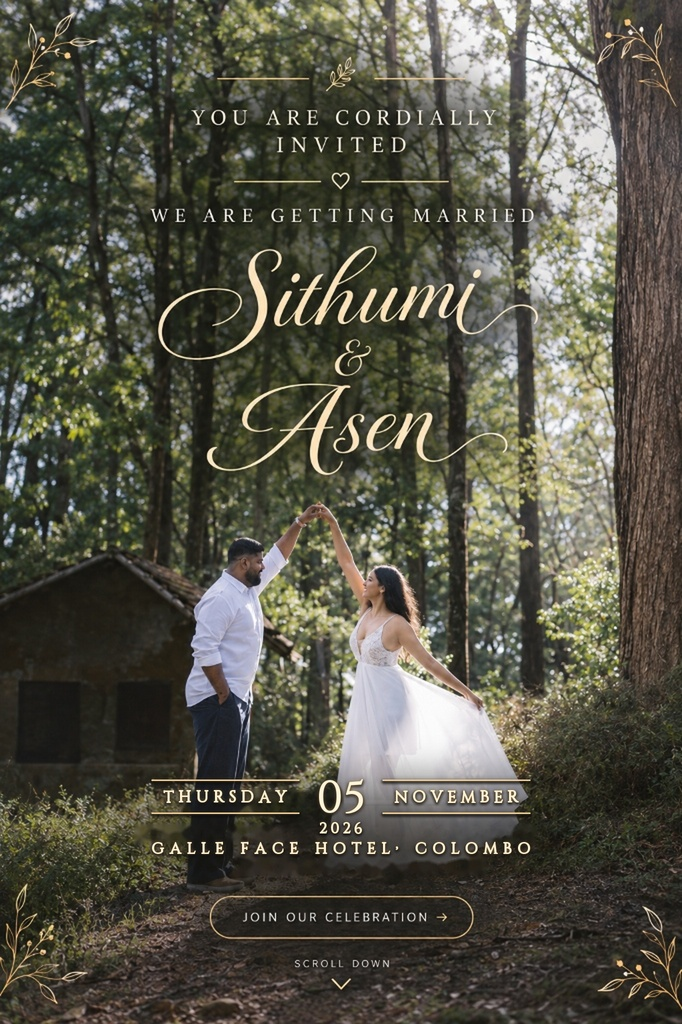
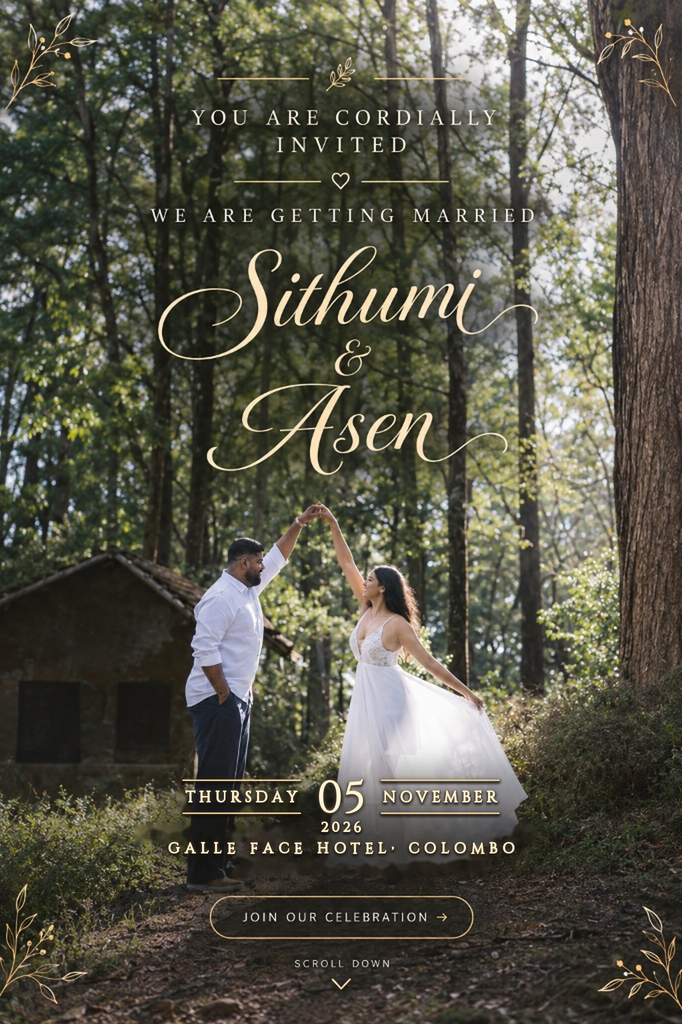
fix hero section issue

Changed region(s): [[0.1848, 0.75, 0.7698, 0.8438]]

diff --git a/src/components/Hero.jsx b/src/components/Hero.jsx
@@ -28,17 +28,17 @@ export default function Hero() {
   return (
     <section
       id="home"
-      className="relative min-h-[100dvh] w-full flex items-center justify-center overflow-hidden bg-[#0D0B08] select-none"
+      className="relative h-[100dvh] min-h-[100dvh] w-full flex items-center justify-center overflow-hidden bg-[#0D0B08] select-none"
     >
       {/* Subtle Ambient Vignette Backdrop */}
       <div className="absolute inset-0 bg-radial from-[#1A1610] via-[#0D0B08] to-[#050403] pointer-events-none" />
 
       {/* 
-        The Exact Full Invitation Poster Card:
-        - Perfectly constrained to aspect ratio 682:1024 so NOTHING is cropped
-        - Fits cleanly on all viewports without overflow
+        The Full Invitation:
+        - Mobile: Edge-to-edge full screen photo (100dvh) with no black bars at top or bottom
+        - Desktop: Centered luxury invitation card (aspect 682:1024)
       */}
-      <div className="relative h-[100dvh] max-h-[100dvh] max-w-[100vw] w-auto aspect-[682/1024] flex items-center justify-center overflow-hidden">
+      <div className="relative w-full h-full sm:h-[100dvh] sm:max-h-[100dvh] sm:max-w-[100vw] sm:w-auto sm:aspect-[682/1024] flex items-center justify-center overflow-hidden">
         
         {/* Full Image with Ken Burns subtle entrance */}
         <motion.img
@@ -47,7 +47,7 @@ export default function Hero() {
           transition={{ duration: 1.2, ease: 'easeOut' }}
           src="/hero-invitation.png"
           alt="Sithumi & Asen Wedding Invitation"
-          className="w-full h-full object-contain pointer-events-none select-none drop-shadow-2xl"
+          className="w-full h-full object-cover sm:object-contain object-center pointer-events-none select-none drop-shadow-2xl"
         />
 
         {/* Floating Ambient Gold Sparkles */}
@@ -80,7 +80,7 @@ export default function Hero() {
 
         {/* 
           Interactive Click Area for "JOIN OUR CELEBRATION" Button 
-          - Positioned exactly over the button in the image (Y ~ 87.4%, Height ~ 4.4%, Width ~ 42%)
+          - Positioned exactly over the button in the image (Y ~ 87.4%, Height ~ 4.4%)
         */}
         <a
           href="#rsvp"
@@ -91,7 +91,7 @@ export default function Hero() {
             top: '87.4%',
             left: '50%',
             transform: 'translateX(-50%)',
-            width: '42%',
+            width: 'min(28.1dvh, 72vw)',
             height: '4.4%',
           }}
         >
@@ -101,7 +101,7 @@ export default function Hero() {
 
         {/* 
           Interactive Click Area for "SCROLL DOWN"
-          - Positioned exactly over the scroll indicator (Y ~ 93.2%, Height ~ 3.8%, Width ~ 28%)
+          - Positioned exactly over the scroll indicator (Y ~ 93.2%, Height ~ 3.8%)
         */}
         <a
           href="#countdown"
@@ -112,7 +112,7 @@ export default function Hero() {
             top: '93.2%',
             left: '50%',
             transform: 'translateX(-50%)',
-            width: '28%',
+            width: 'min(18.6dvh, 48vw)',
             height: '3.8%',
           }}
         >
